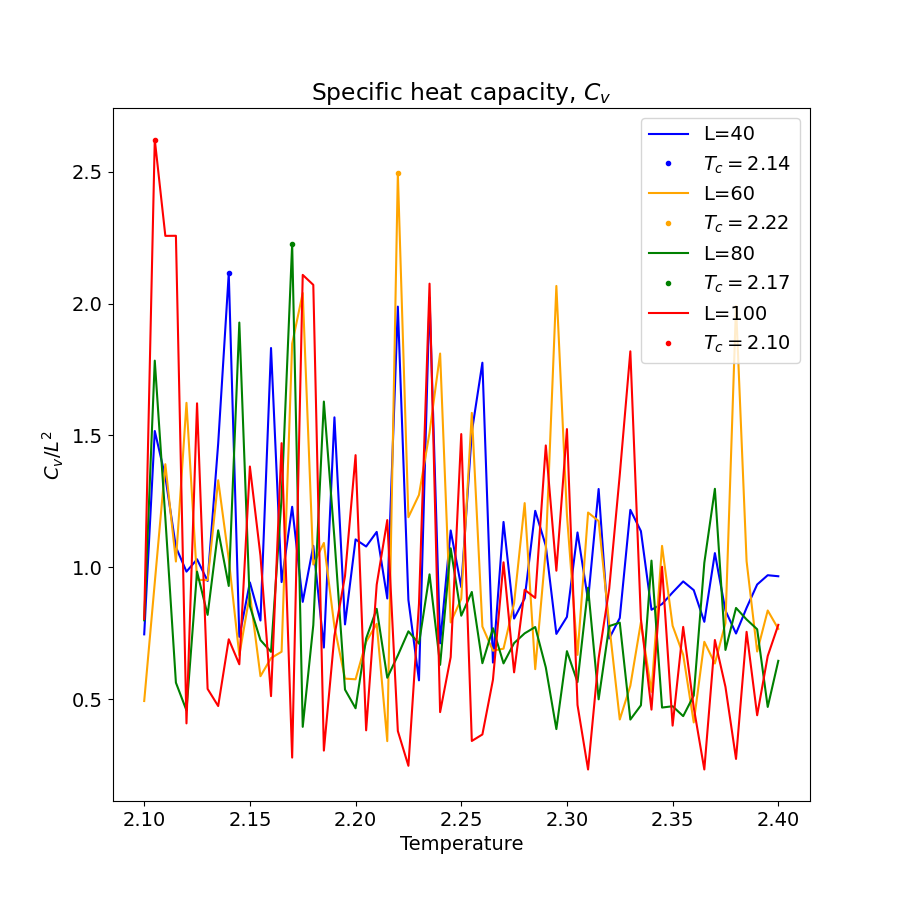
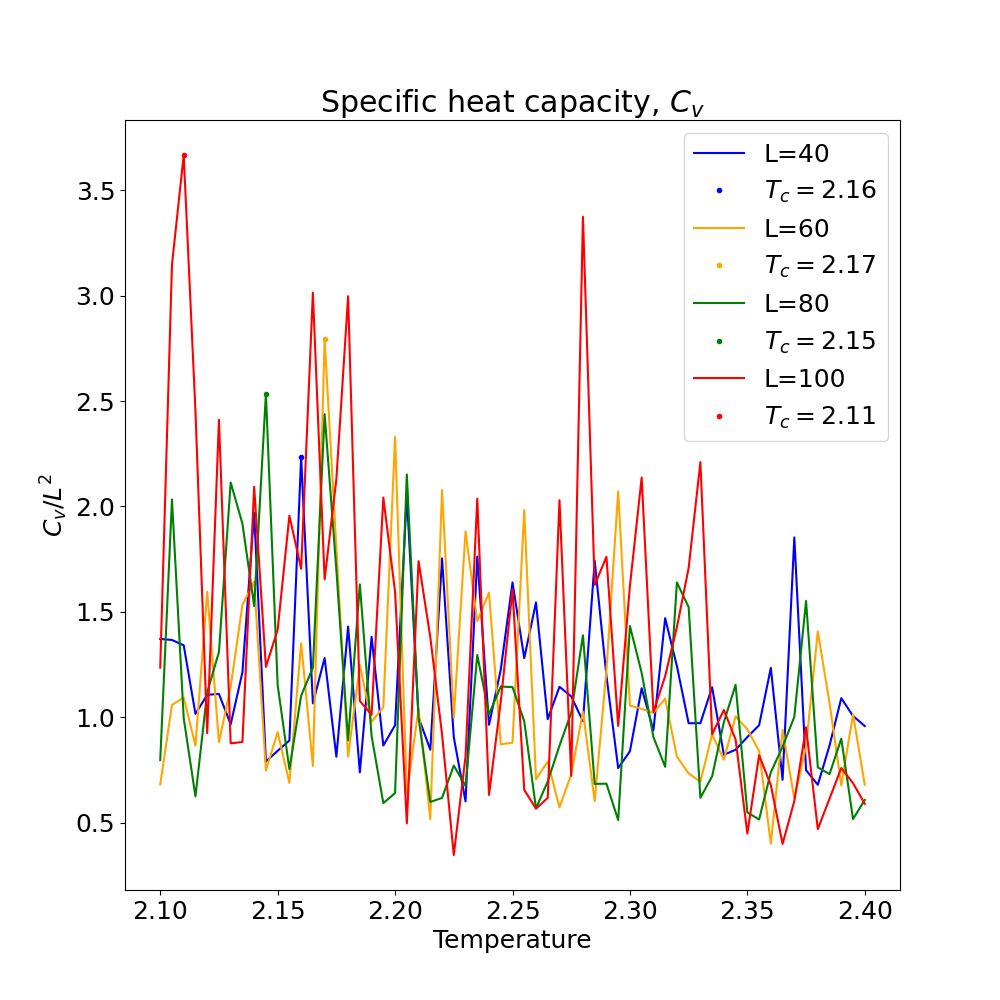
torsdag

diff --git a/project4/fg.py b/project4/fg.py
@@ -3,7 +3,7 @@ from run import *
 import matplotlib.pyplot as plt
 from probability import *
 from astropy import constants
-plt.rcParams['font.size'] = 14
+plt.rcParams['font.size'] = 18
 
 
 def Cv_func(E_mean, E_mean_sqrd, T):
@@ -26,7 +26,7 @@ def calc_func():
     M_mean = np.zeros((len(L_arr),len(T_arr)))
     E_mean_sqrd = np.zeros((len(L_arr),len(T_arr)))
     M_mean_sqrd = np.zeros((len(L_arr),len(T_arr)))
-    N_cycles = 3e5
+    N_cycles = 1e6
     ylen, xlen = E_mean.shape
     L2 = xlen*ylen
     a=0
@@ -45,13 +45,13 @@ def calc_func():
 
 
 def plot_func():
-    N_cycles = 3e5
+    N_cycles = 1e6
     T0 = 2.1; T1 = 2.4
     dT = 0.005
     N = int(np.abs(T1-T0)//dT)
     T_arr = np.linspace(T0,T1,N+2)
     L_arr = np.array((40,60,80,100))
-    E_mean, M_mean, E_mean_sqrd, M_mean_sqrd = np.load('E_M_E2_M2_3e5.npy')
+    E_mean, M_mean, E_mean_sqrd, M_mean_sqrd = np.load('E_M_E2_M2_5e5.npy')
     ylen, xlen = E_mean.shape
 
     Cv = Cv_func(E_mean, E_mean_sqrd, T_arr[np.newaxis])
@@ -60,28 +60,30 @@ def plot_func():
     L2 = L_arr*L_arr
 
     color = ['blue','orange','green','red']
-    plt.figure(figsize=(9,9))
+    plt.figure(figsize=(10,10))
     plt.title(r'Energy, $\langle E \rangle$')
     for i in range(len(L_arr)):
         plt.plot(T_arr,E_mean[i]/L2[i],c=color[i], label='L=%i' % L_arr[i])
     plt.ylabel(r'$\langle E \rangle/L^2$')
+    plt.xlabel('Temperature')
     plt.legend()
     plt.savefig('energy.png')
 
     tol = 1e1  # Choose a tolerance
     M_indx = np.zeros((ylen))
 
-    plt.figure(figsize=(9,9))
+    plt.figure(figsize=(10,10))
     plt.title(r'Magnetisation, $\langle |M| \rangle$')
     for i in range(len(L_arr)):
         plt.plot(T_arr,M_mean[i]/L2[i],c=color[i], label='L=%i' % L_arr[i])
     plt.ylabel(r'$\langle |M| \rangle/L^2$')
+    plt.xlabel('Temperature')
     plt.legend()
     plt.savefig('magnetisation.png')
 
     Cv_indx = np.zeros((ylen))
     Tc = np.zeros((ylen))
-    plt.figure(figsize=(9,9))
+    plt.figure(figsize=(10,10))
     plt.title(r'Specific heat capacity, $C_v$')
     #Tc = np.ones((ylen))*2.3
     for i in range(len(L_arr)):
@@ -95,7 +97,7 @@ def plot_func():
     plt.savefig('heat_capacity.png')
 
     chi_indx = np.zeros((ylen))
-    plt.figure(figsize=(9,9))
+    plt.figure(figsize=(10,10))
     plt.title(r'Susceptibility, $\chi$')
     for i in range(len(L_arr)):
         plt.plot(T_arr,chi[i]/L2[i], c=color[i],label='L=%i' % L_arr[i])
@@ -112,8 +114,8 @@ def plot_func():
     Tc_file.close()
     #np.save('Tc.npy', np.array((M_Tc, Cv_Tc, chi_Tc)))
 
-    plt.figure(figsize=(9,9))
-    plt.title('tittel')
+    plt.figure(figsize=(10,10))
+    plt.title(r'$T_c$ comparison')
     Tc_L_infty = Tc-1/L_arr
     plt.plot(L_arr, Tc_L_infty,'x',c='r', label=r'Computed, $T_c = %.3f [k_B T/J]$ '% np.mean(Tc_L_infty))
     plt.plot(L_arr, Tc_L_infty,c='blue')
@@ -131,4 +133,4 @@ def plot_func():
 
 #compile_func()
 #calc_func()
-plot_func()
+#plot_func()

diff --git a/project4/de.py b/project4/de.py
@@ -2,6 +2,7 @@ import numpy as np
 from run import *
 import matplotlib.pyplot as plt
 from probability import *
+plt.rcParams['font.size'] = 18
 N_cycles = 1e6
 MC_array = np.arange(N_cycles)
 def calc_plot(L=20, init_state='random'):
@@ -28,8 +29,8 @@ def calc_plot(L=20, init_state='random'):
     #plt.axvline(MC_array[indx1],c='k',ls = 'dashed')
     plt.plot(MC_array, E/L2, label='E')
     plt.plot(MC_array, E_mean/L2, label=r'$\langle E\rangle$')
-    plt.axhline(median1/L2, c='r', ls = 'dashed',label='$E_{eq} = %i$' % median1)
-    plt.ylabel('Energy $[J]$')
+    plt.axhline(median1/L2, c='r', ls = 'dashed',label='$E_{eq} = %.2f$' % (median1/L2))
+    plt.ylabel(r'Energy/$L^2$ ')
     plt.xlabel('# of Monte Carlo cycles')
     plt.legend(loc='upper right')
     plt.savefig('E_%i_%s.png' % (T,init_state))
@@ -45,7 +46,7 @@ def calc_plot(L=20, init_state='random'):
 
     plt.plot(MC_array, M/L2, label=r'$|M|$')
     plt.plot(MC_array, M_mean/L2, label=r'$\langle |M|\rangle$')
-    plt.ylabel('Magnetisation $[J]$')
+    plt.ylabel(r'Magnetisation/$L^2$')
     plt.xlabel('# of Monte Carlo cycles')
     plt.legend(loc='upper right')
     plt.savefig('M_%i_%s.png' % (T,init_state))
@@ -78,8 +79,8 @@ def calc_plot(L=20, init_state='random'):
     #plt.axvline(MC_array[indx2],c='k',ls = 'dashed')
     plt.plot(MC_array, E2/L2, label='E')
     plt.plot(MC_array, E2_mean/L2, label=r'$\langle E\rangle$')
-    plt.axhline(median2/L2, c='r', ls = 'dashed',label='$E_{eq} = %i$' % median2)
-    plt.ylabel('Energy $[J]$')
+    plt.axhline(median2/L2, c='r', ls = 'dashed',label='$E_{eq} = %.2f$' % (median2/L2))
+    plt.ylabel(r'Energy/$L^2$ ')
     plt.xlabel('# of Monte Carlo cycles')
     plt.legend(loc='upper right')
     plt.savefig('E_%i_%s.png' % (T,init_state))
@@ -95,7 +96,7 @@ def calc_plot(L=20, init_state='random'):
 
     plt.plot(MC_array, M2/L2, label=r'$|M|$')
     plt.plot(MC_array, M2_mean/L2, label=r'$\langle |M|\rangle$')
-    plt.ylabel('Magnetisation $[J]$')
+    plt.ylabel(r'Magnetisation/$L^2$')
     plt.xlabel('# of Monte Carlo cycles')
     plt.legend(loc='upper right')
     plt.savefig('M_%i_%s.png' % (T,init_state))
@@ -108,3 +109,4 @@ def calc_plot(L=20, init_state='random'):
 #compile_func()
 calc_plot(init_state="random")
 calc_plot(init_state='ordered')
+plt.show()

diff --git a/project4/probability.py b/project4/probability.py
@@ -35,6 +35,7 @@ def probability_func(energies, in_label, plot=True):
         plt.axvline(expected,c="r",ls="--", label=r'$\langle E\rangle$ = %.2f' % expected)
         plt.legend(fontsize=16)
         plt.xlabel("Energies", fontsize=16)
+        plt.ylabel(r'$P(E)$')
         #plt.show()
 
 

diff --git a/project4/ef_old.py b/project4/ef_old.py
@@ -2,7 +2,7 @@ from run import *
 import numpy as np
 import matplotlib.pyplot as plt
 from probability import *
-plt.rcParams['font.size'] = 14
+plt.rcParams['font.size'] = 18
 
 
 def d_func(T=1, N_cycles = 1e5):
